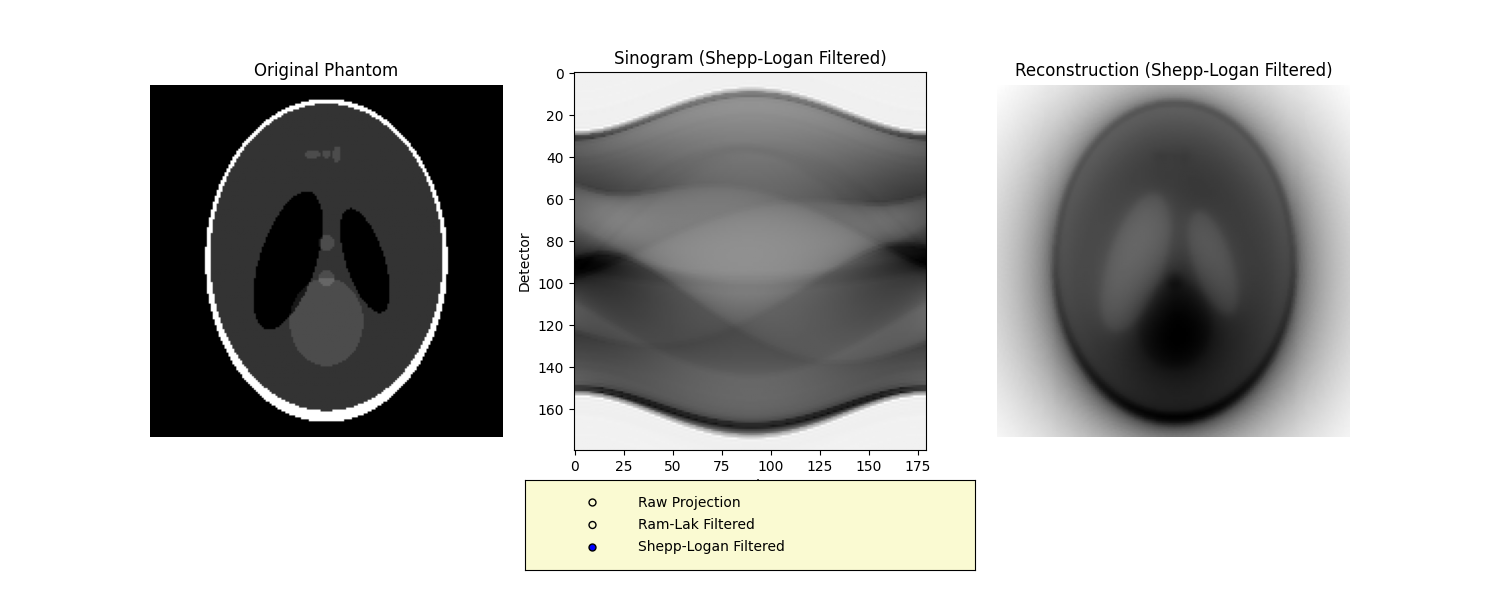
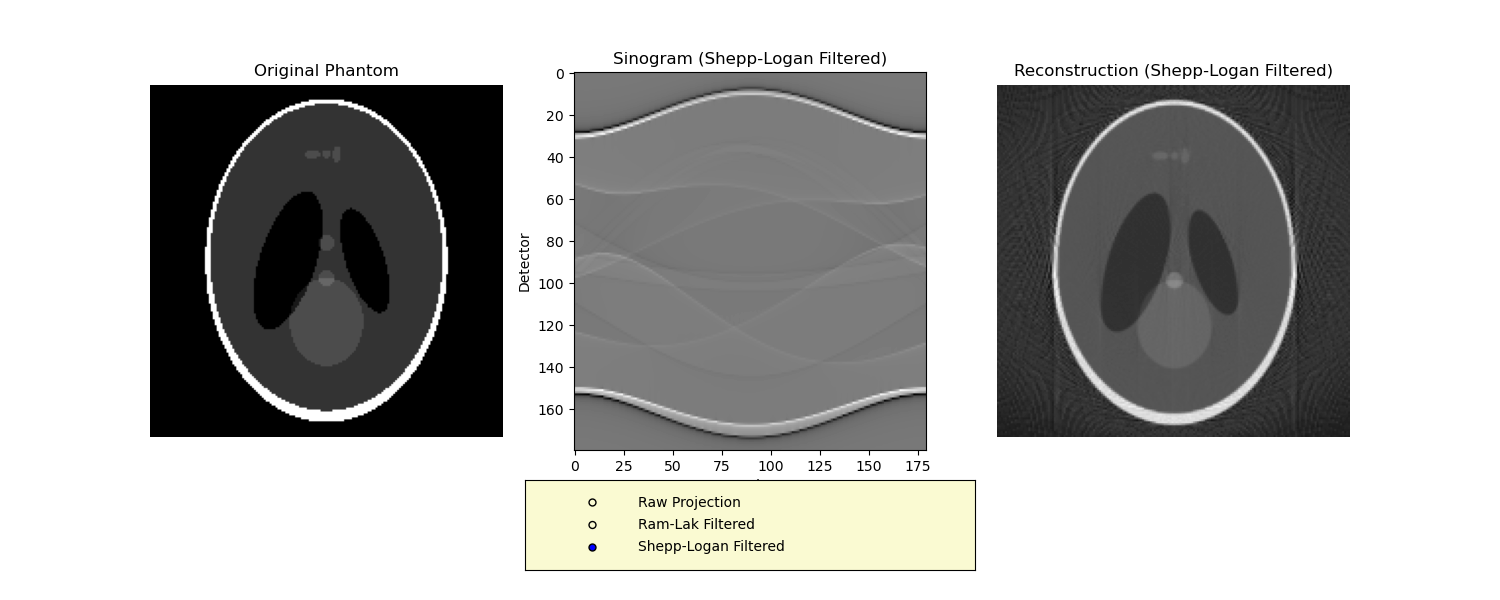
修正了一下fbp的S-L滤波函数

Changed region(s): [[0.368, 0.09, 0.92, 0.75], [0.4293, 0.81, 0.4907, 0.9], [0.184, 0.09, 0.276, 0.15]]

diff --git a/实验1-CT重建/CT重建-python程序/fbp_reconstruction.py b/实验1-CT重建/CT重建-python程序/fbp_reconstruction.py
@@ -37,9 +37,6 @@ def forward_projection(theta_proj, N, N_d):
             P_theta[ind] += rho[k2] * (2 * ae[k2] * be[k2] * np.sqrt(temp[ind])) / a
         P[:, k1] = P_theta
 
-    P_min = np.min(P)
-    P_max = np.max(P)
-    P = (P - P_min) / (P_max - P_min + 1e-8)
     return P
 
 
@@ -60,11 +57,7 @@ def shepp_logan_filter(size):
     n = np.arange(-size // 2, size // 2)
     filter = np.zeros(size)
     for i, freq in enumerate(n):
-        abs_freq = np.abs(freq)
-        if abs_freq == 0:
-            filter[i] = 0
-        else:
-            filter[i] = -1 / (np.pi ** 2 * abs_freq ** 2) * np.sin(np.pi * abs_freq) / abs_freq
+        filter[i] = -2 / (np.pi ** 2 * (4 * freq ** 2 - 1))
     return filter
 
 
